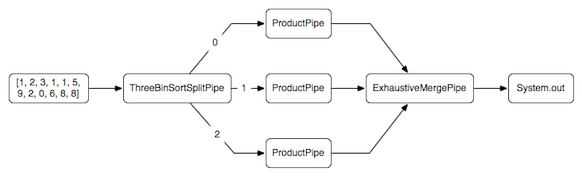
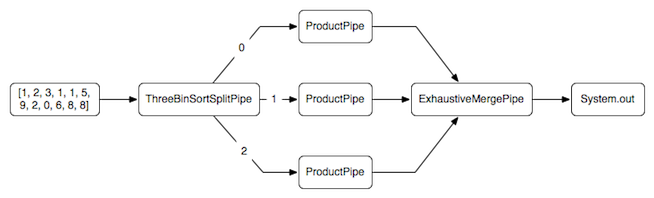
added a setPipes() method to Pipeline that just takes a start and end pipe. This is a good way to make a complicated branching and then re-merging pipe graph into a pipeline. Updated a document image.

diff --git a/src/main/java/com/tinkerpop/pipes/serial/Pipeline.java b/src/main/java/com/tinkerpop/pipes/serial/Pipeline.java
@@ -37,8 +37,13 @@ public class Pipeline<S, E> implements Pipe<S, E> {
         }
     }
 
+    public void setPipes(final Pipe<S, ?> startPipe, final Pipe<?, E> endPipe) {
+        this.startPipe = startPipe;
+        this.endPipe = endPipe;
+    }
+
     public void setStarts(final Iterator<S> starts) {
-        startPipe.setStarts(starts);
+        this.startPipe.setStarts(starts);
     }
 
     public void setStarts(final Iterable<S> starts) {
